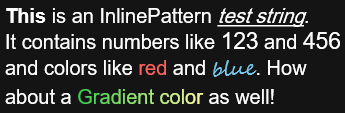
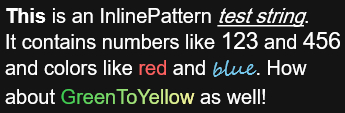
Tweak

Changed region(s): [[0.1739, 0.7699, 0.8116, 0.9292]]

diff --git a/source/manual-beta/meters/string/inline.html b/source/manual-beta/meters/string/inline.html
@@ -134,7 +134,7 @@ AccurateText=1
 
 [MeasureString]
 Measure=String
-String=This is an InlinePattern test string.#CRLF#It contains numbers like 123 and 456#CRLF#and colors like red and blue. How#CRLF#about a Gradient color as well!
+String=This is an InlinePattern test string.#CRLF#It contains numbers like 123 and 456#CRLF#and colors like red and blue. How#CRLF#about GreenToYellow as well!
 
 [MeterString]
 Meter=String
@@ -159,7 +159,7 @@ InlinePattern6=colors like .* and (.*)\.
 InlineSetting7=Face | Segoe Script
 InlinePattern7=colors like .* and (.*)\.
 InlineSetting8=GradientColor | 180 | 57,204,79,255 ; 0.0 | 250,247,157,255 ; 1.0
-InlinePattern8=Gradient color
+InlinePattern8=GreenToYellow
 ```
 <p>Using that string defined in [MeasureString], let's look at each of our InlineSetting / InlinePattern options.</p>
 
